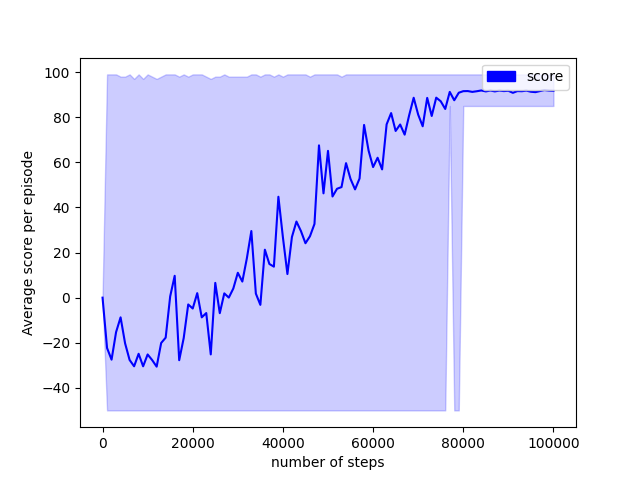
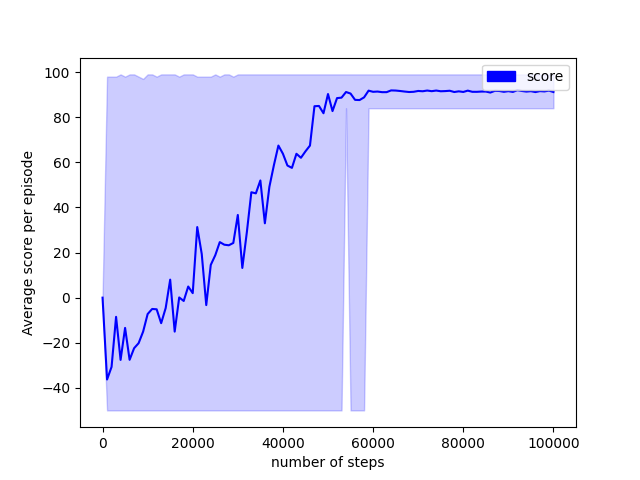
Some parameter experiment

Changed region(s): [[0.1562, 0.1875, 0.8438, 0.875], [0.3125, 0.1562, 0.3438, 0.1875], [0.1875, 0.1562, 0.2188, 0.1875]]

diff --git a/RL_HW2/code/arguments.py b/RL_HW2/code/arguments.py
@@ -30,7 +30,7 @@ def get_args():
     parser.add_argument(
         '--gamma',
         type=float,
-        default=0.7)
+        default=0.9)
 
     # other parameter
     parser.add_argument(
